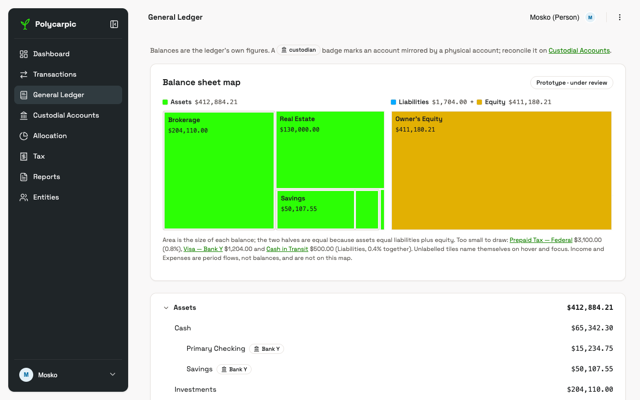
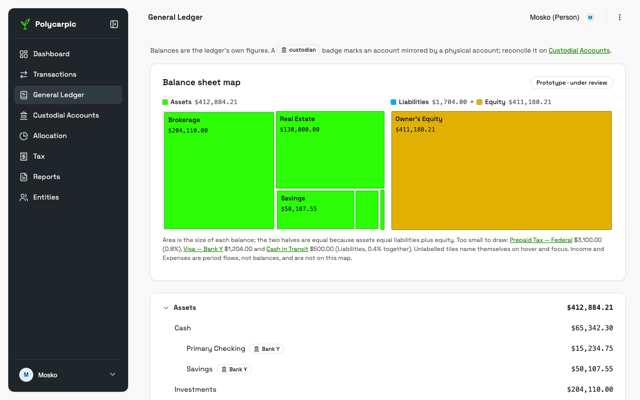
docs(design): --cat-edge, a darker hairline on categorical marks
--border is 1.06:1 on the neon, so it edged nothing on the brightest
slots. --cat-edge is the page ink at 35% light, 25% dark; treemap tiles,
Allocation bars and dots, and Pack strokes take it.

Claude-Session: https://claude.ai/code/session_01ShccjKcDxp7qM5CJSuonxD

Changed region(s): [[0.4062, 0.27, 0.625, 0.57]]

diff --git a/docs/DESIGN/tokens.html b/docs/DESIGN/tokens.html
@@ -249,40 +249,44 @@
     <thead><tr><th>Token</th><th>Light</th><th>Dark</th><th>Fixed assignment</th></tr></thead>
     <tbody>
       <tr><td><code>--cat-1</code></td>
-        <td class="pair"><div class="mode"><span class="chip" style="background:#2CFF05;color:#1D1F20;box-shadow:inset 0 0 0 1px var(--border);display:flex;align-items:center;justify-content:center;font-size:0.7rem;font-weight:600">Aa</span><span class="hex">#2CFF05 (1.29 / 1.36)</span><span class="hex">label dark 12.15</span></div></td>
-        <td class="pair"><div class="mode"><span class="chip" style="background:#2CFF05;color:#070808;box-shadow:inset 0 0 0 1px var(--border);display:flex;align-items:center;justify-content:center;font-size:0.7rem;font-weight:600">Aa</span><span class="hex">#2CFF05 (14.72 / 14.18)</span><span class="hex">label dark 14.72</span></div></td>
+        <td class="pair"><div class="mode"><span class="chip" style="background:#2CFF05;color:#1D1F20;box-shadow:inset 0 0 0 1px rgba(29,31,32,.35);display:flex;align-items:center;justify-content:center;font-size:0.7rem;font-weight:600">Aa</span><span class="hex">#2CFF05 (1.29 / 1.36)</span><span class="hex">label dark 12.15</span></div></td>
+        <td class="pair"><div class="mode"><span class="chip" style="background:#2CFF05;color:#070808;box-shadow:inset 0 0 0 1px rgba(242,242,243,.25);display:flex;align-items:center;justify-content:center;font-size:0.7rem;font-weight:600">Aa</span><span class="hex">#2CFF05 (14.72 / 14.18)</span><span class="hex">label dark 14.72</span></div></td>
         <td>Neon green — <code>--brand</code>, literal. Assets · Person · US Equity.</td></tr>
       <tr><td><code>--cat-2</code></td>
-        <td class="pair"><div class="mode"><span class="chip" style="background:#05A9FF;color:#1D1F20;box-shadow:inset 0 0 0 1px var(--border);display:flex;align-items:center;justify-content:center;font-size:0.7rem;font-weight:600">Aa</span><span class="hex">#05A9FF (2.44 / 2.58)</span><span class="hex">label dark 6.40</span></div></td>
-        <td class="pair"><div class="mode"><span class="chip" style="background:#05A9FF;color:#070808;box-shadow:inset 0 0 0 1px var(--border);display:flex;align-items:center;justify-content:center;font-size:0.7rem;font-weight:600">Aa</span><span class="hex">#05A9FF (7.76 / 7.48)</span><span class="hex">label dark 7.76</span></div></td>
+        <td class="pair"><div class="mode"><span class="chip" style="background:#05A9FF;color:#1D1F20;box-shadow:inset 0 0 0 1px rgba(29,31,32,.35);display:flex;align-items:center;justify-content:center;font-size:0.7rem;font-weight:600">Aa</span><span class="hex">#05A9FF (2.44 / 2.58)</span><span class="hex">label dark 6.40</span></div></td>
+        <td class="pair"><div class="mode"><span class="chip" style="background:#05A9FF;color:#070808;box-shadow:inset 0 0 0 1px rgba(242,242,243,.25);display:flex;align-items:center;justify-content:center;font-size:0.7rem;font-weight:600">Aa</span><span class="hex">#05A9FF (7.76 / 7.48)</span><span class="hex">label dark 7.76</span></div></td>
         <td>Sky blue — <code>--brand-2</code>, literal. Liabilities · Trust · Intl Equity.</td></tr>
       <tr><td><code>--cat-3</code></td>
-        <td class="pair"><div class="mode"><span class="chip" style="background:#E2B003;color:#1D1F20;box-shadow:inset 0 0 0 1px var(--border);display:flex;align-items:center;justify-content:center;font-size:0.7rem;font-weight:600">Aa</span><span class="hex">#E2B003 (1.90 / 2.01)</span><span class="hex">label dark 8.23</span></div></td>
-        <td class="pair"><div class="mode"><span class="chip" style="background:#E2B003;color:#070808;box-shadow:inset 0 0 0 1px var(--border);display:flex;align-items:center;justify-content:center;font-size:0.7rem;font-weight:600">Aa</span><span class="hex">#E2B003 (9.97 / 9.61)</span><span class="hex">label dark 9.97</span></div></td>
+        <td class="pair"><div class="mode"><span class="chip" style="background:#E2B003;color:#1D1F20;box-shadow:inset 0 0 0 1px rgba(29,31,32,.35);display:flex;align-items:center;justify-content:center;font-size:0.7rem;font-weight:600">Aa</span><span class="hex">#E2B003 (1.90 / 2.01)</span><span class="hex">label dark 8.23</span></div></td>
+        <td class="pair"><div class="mode"><span class="chip" style="background:#E2B003;color:#070808;box-shadow:inset 0 0 0 1px rgba(242,242,243,.25);display:flex;align-items:center;justify-content:center;font-size:0.7rem;font-weight:600">Aa</span><span class="hex">#E2B003 (9.97 / 9.61)</span><span class="hex">label dark 9.97</span></div></td>
         <td>Gold. Equity · Business · Fixed Income.</td></tr>
       <tr><td><code>--cat-4</code></td>
-        <td class="pair"><div class="mode"><span class="chip" style="background:#FF49D8;color:#1D1F20;box-shadow:inset 0 0 0 1px var(--border);display:flex;align-items:center;justify-content:center;font-size:0.7rem;font-weight:600">Aa</span><span class="hex">#FF49D8 (2.75 / 2.92)</span><span class="hex">label dark 5.67</span></div></td>
-        <td class="pair"><div class="mode"><span class="chip" style="background:#FF49D8;color:#070808;box-shadow:inset 0 0 0 1px var(--border);display:flex;align-items:center;justify-content:center;font-size:0.7rem;font-weight:600">Aa</span><span class="hex">#FF49D8 (6.87 / 6.62)</span><span class="hex">label dark 6.87</span></div></td>
+        <td class="pair"><div class="mode"><span class="chip" style="background:#FF49D8;color:#1D1F20;box-shadow:inset 0 0 0 1px rgba(29,31,32,.35);display:flex;align-items:center;justify-content:center;font-size:0.7rem;font-weight:600">Aa</span><span class="hex">#FF49D8 (2.75 / 2.92)</span><span class="hex">label dark 5.67</span></div></td>
+        <td class="pair"><div class="mode"><span class="chip" style="background:#FF49D8;color:#070808;box-shadow:inset 0 0 0 1px rgba(242,242,243,.25);display:flex;align-items:center;justify-content:center;font-size:0.7rem;font-weight:600">Aa</span><span class="hex">#FF49D8 (6.87 / 6.62)</span><span class="hex">label dark 6.87</span></div></td>
         <td>Magenta. Income · Household · Cash.</td></tr>
       <tr><td><code>--cat-5</code></td>
-        <td class="pair"><div class="mode"><span class="chip" style="background:#06E5F7;color:#1D1F20;box-shadow:inset 0 0 0 1px var(--border);display:flex;align-items:center;justify-content:center;font-size:0.7rem;font-weight:600">Aa</span><span class="hex">#06E5F7 (1.46 / 1.55)</span><span class="hex">label dark 10.68</span></div></td>
-        <td class="pair"><div class="mode"><span class="chip" style="background:#06E5F7;color:#070808;box-shadow:inset 0 0 0 1px var(--border);display:flex;align-items:center;justify-content:center;font-size:0.7rem;font-weight:600">Aa</span><span class="hex">#06E5F7 (12.95 / 12.48)</span><span class="hex">label dark 12.95</span></div></td>
+        <td class="pair"><div class="mode"><span class="chip" style="background:#06E5F7;color:#1D1F20;box-shadow:inset 0 0 0 1px rgba(29,31,32,.35);display:flex;align-items:center;justify-content:center;font-size:0.7rem;font-weight:600">Aa</span><span class="hex">#06E5F7 (1.46 / 1.55)</span><span class="hex">label dark 10.68</span></div></td>
+        <td class="pair"><div class="mode"><span class="chip" style="background:#06E5F7;color:#070808;box-shadow:inset 0 0 0 1px rgba(242,242,243,.25);display:flex;align-items:center;justify-content:center;font-size:0.7rem;font-weight:600">Aa</span><span class="hex">#06E5F7 (12.95 / 12.48)</span><span class="hex">label dark 12.95</span></div></td>
         <td>Cyan. Expense · Holding.</td></tr>
       <tr><td><code>--cat-6</code></td>
-        <td class="pair"><div class="mode"><span class="chip" style="background:#C67EFF;color:#1D1F20;box-shadow:inset 0 0 0 1px var(--border);display:flex;align-items:center;justify-content:center;font-size:0.7rem;font-weight:600">Aa</span><span class="hex">#C67EFF (2.53 / 2.68)</span><span class="hex">label dark 6.17</span></div></td>
-        <td class="pair"><div class="mode"><span class="chip" style="background:#C67EFF;color:#070808;box-shadow:inset 0 0 0 1px var(--border);display:flex;align-items:center;justify-content:center;font-size:0.7rem;font-weight:600">Aa</span><span class="hex">#C67EFF (7.48 / 7.20)</span><span class="hex">label dark 7.48</span></div></td>
+        <td class="pair"><div class="mode"><span class="chip" style="background:#C67EFF;color:#1D1F20;box-shadow:inset 0 0 0 1px rgba(29,31,32,.35);display:flex;align-items:center;justify-content:center;font-size:0.7rem;font-weight:600">Aa</span><span class="hex">#C67EFF (2.53 / 2.68)</span><span class="hex">label dark 6.17</span></div></td>
+        <td class="pair"><div class="mode"><span class="chip" style="background:#C67EFF;color:#070808;box-shadow:inset 0 0 0 1px rgba(242,242,243,.25);display:flex;align-items:center;justify-content:center;font-size:0.7rem;font-weight:600">Aa</span><span class="hex">#C67EFF (7.48 / 7.20)</span><span class="hex">label dark 7.48</span></div></td>
         <td>Violet. Sixth series by first appearance.</td></tr>
       <tr><td><code>--cat-7</code></td>
-        <td class="pair"><div class="mode"><span class="chip" style="background:#FF67A4;color:#1D1F20;box-shadow:inset 0 0 0 1px var(--border);display:flex;align-items:center;justify-content:center;font-size:0.7rem;font-weight:600">Aa</span><span class="hex">#FF67A4 (2.56 / 2.72)</span><span class="hex">label dark 6.09</span></div></td>
-        <td class="pair"><div class="mode"><span class="chip" style="background:#FF67A4;color:#070808;box-shadow:inset 0 0 0 1px var(--border);display:flex;align-items:center;justify-content:center;font-size:0.7rem;font-weight:600">Aa</span><span class="hex">#FF67A4 (7.38 / 7.11)</span><span class="hex">label dark 7.38</span></div></td>
+        <td class="pair"><div class="mode"><span class="chip" style="background:#FF67A4;color:#1D1F20;box-shadow:inset 0 0 0 1px rgba(29,31,32,.35);display:flex;align-items:center;justify-content:center;font-size:0.7rem;font-weight:600">Aa</span><span class="hex">#FF67A4 (2.56 / 2.72)</span><span class="hex">label dark 6.09</span></div></td>
+        <td class="pair"><div class="mode"><span class="chip" style="background:#FF67A4;color:#070808;box-shadow:inset 0 0 0 1px rgba(242,242,243,.25);display:flex;align-items:center;justify-content:center;font-size:0.7rem;font-weight:600">Aa</span><span class="hex">#FF67A4 (7.38 / 7.11)</span><span class="hex">label dark 7.38</span></div></td>
         <td>Rose. Seventh series by first appearance.</td></tr>
       <tr><td><code>--cat-other</code></td>
-        <td class="pair"><div class="mode"><span class="chip" style="background:#A8A39D;color:#1D1F20;box-shadow:inset 0 0 0 1px var(--border);display:flex;align-items:center;justify-content:center;font-size:0.7rem;font-weight:600">Aa</span><span class="hex">#A8A39D (2.36 / 2.50)</span><span class="hex">label dark 6.61</span></div></td>
-        <td class="pair"><div class="mode"><span class="chip" style="background:#A8A39D;color:#070808;box-shadow:inset 0 0 0 1px var(--border);display:flex;align-items:center;justify-content:center;font-size:0.7rem;font-weight:600">Aa</span><span class="hex">#A8A39D (8.01 / 7.72)</span><span class="hex">label dark 8.01</span></div></td>
+        <td class="pair"><div class="mode"><span class="chip" style="background:#A8A39D;color:#1D1F20;box-shadow:inset 0 0 0 1px rgba(29,31,32,.35);display:flex;align-items:center;justify-content:center;font-size:0.7rem;font-weight:600">Aa</span><span class="hex">#A8A39D (2.36 / 2.50)</span><span class="hex">label dark 6.61</span></div></td>
+        <td class="pair"><div class="mode"><span class="chip" style="background:#A8A39D;color:#070808;box-shadow:inset 0 0 0 1px rgba(242,242,243,.25);display:flex;align-items:center;justify-content:center;font-size:0.7rem;font-weight:600">Aa</span><span class="hex">#A8A39D (8.01 / 7.72)</span><span class="hex">label dark 8.01</span></div></td>
         <td>Neutral. Every series from the eighth on, folded into one “Other”.</td></tr>
+      <tr><td><code>--cat-edge</code></td>
+        <td class="pair"><div class="mode"><span class="chip" style="background:#2CFF05;box-shadow:inset 0 0 0 1px rgba(29,31,32,.35)"></span><span class="hex">--foreground 35%</span><span class="hex">on neon 2.09 / 2.68</span></div></td>
+        <td class="pair"><div class="mode"><span class="chip" style="background:#0D0E0F;box-shadow:inset 0 0 0 1px rgba(242,242,243,.25)"></span><span class="hex">--foreground 25%</span><span class="hex">on --card 2.08</span></div></td>
+        <td>The 1px edge on every categorical mark. Light: against the fill / the page.</td></tr>
     </tbody>
   </table>
-  <p class="section-hint group-note"><strong>Light-mode surface contrast is waived for categorical fills by Principal ruling.</strong> The 3:1 rule would darken the brand colours out of the set, so these fills sit at 1.29–2.92:1 on the light surfaces. Three things compensate on every mark: it carries a visible label or legend; it has a 1px <code>--border</code> hairline, or a 2px surface gap against a neighbouring fill; and its label ink is dark, AA on the fill. Telling the slots apart is not waived: the colour-blindness and normal-vision checks pass.</p>
+  <p class="section-hint group-note"><strong>Light-mode surface contrast is waived for categorical fills by Principal ruling.</strong> The 3:1 rule would darken the brand colours out of the set, so these fills sit at 1.29–2.92:1 on the light surfaces. Three things compensate on every mark: it carries a visible label or legend; it has a 1px <code>--cat-edge</code> hairline, and a 2px surface gap against a neighbouring fill; and its label ink is dark, AA on the fill. Telling the slots apart is not waived: the colour-blindness and normal-vision checks pass.</p>
   <p class="section-hint group-note"><strong>Colour follows the entity, never its rank.</strong> The accounting elements (Assets, Liabilities, Equity, Income, Expense) and the entity types (Person, Trust, Business, Household, Holding) both use slots 1–5; they never share a chart. Asset classes use slots 1–4 and a sub-category takes its parent’s slot. Anything else (transaction categories, Sankey flows) is assigned in order of first appearance, persisted, and folds into <code>--cat-other</code> from the eighth on.</p>
 </section>
 

diff --git a/docs/DESIGN/screen.css b/docs/DESIGN/screen.css
@@ -1451,8 +1451,8 @@ table.data-table tr.opening td { color: var(--muted-foreground); font-style: ita
 .alloc-row .alloc-figs { font-family: var(--font-mono); font-variant-numeric: tabular-nums; font-size: 13px; color: var(--muted-foreground); text-align: right; }
 .alloc-row .badge { justify-self: end; }
 .alloc-track { position: relative; height: 10px; border-radius: 999px; background: var(--muted); }
-.alloc-track .alloc-fill { position: absolute; inset: 0 auto 0 0; border-radius: 999px; box-shadow: inset 0 0 0 1px var(--border); }
-.alloc-name .dot { box-shadow: 0 0 0 1px var(--border); }
+.alloc-track .alloc-fill { position: absolute; inset: 0 auto 0 0; border-radius: 999px; box-shadow: inset 0 0 0 1px var(--cat-edge); }
+.alloc-name .dot { box-shadow: 0 0 0 1px var(--cat-edge); }
 .alloc-track .alloc-target { position: absolute; top: -4px; bottom: -4px; width: 2px; background: var(--foreground); border-radius: 1px; }
 .alloc-legend { display: flex; gap: 16px; font-size: 12px; color: var(--muted-foreground); }
 .alloc-legend span { display: inline-flex; align-items: center; gap: 6px; }
@@ -1534,7 +1534,7 @@ table.data-table tr.opening td { color: var(--muted-foreground); font-style: ita
    Liabilities --cat-2, Equity --cat-3), each label in the slot's
    dark -foreground ink: 12.15 / 6.40 / 8.23:1 light, 14.72 / 7.76 /
    9.97:1 dark. The 1px --card tile border is the surface gap between
-   fills (2px between two tiles), and the inset --border hairline edges
+   fills (2px between two tiles), and the inset --cat-edge hairline edges
    the bright fills on white. Labels
    clip by container query: value hidden under 96x38, label under 64x22.
    Colour is never alone: every tile carries its name (or a title/aria
@@ -1545,10 +1545,10 @@ table.data-table tr.opening td { color: var(--muted-foreground); font-style: ita
 .tm-cols > span { display: flex; align-items: center; gap: 6px; flex-wrap: wrap; }
 .tm-cols .mono { color: var(--muted-foreground); font-weight: 400; }
 .tm-plus { color: var(--muted-foreground); }
-.tm-swatch { width: 10px; height: 10px; border-radius: 2px; display: inline-block; box-shadow: 0 0 0 1px var(--border); }
+.tm-swatch { width: 10px; height: 10px; border-radius: 2px; display: inline-block; box-shadow: 0 0 0 1px var(--cat-edge); }
 .tm-map { position: relative; height: 240px; }
 .tm-group { position: absolute; background: var(--border); border-radius: 4px; }
-.tm-tile { position: absolute; box-sizing: border-box; border: 1px solid var(--card); border-radius: 3px; box-shadow: inset 0 0 0 1px var(--border); overflow: hidden; container-type: size; text-decoration: none; color: var(--card); }
+.tm-tile { position: absolute; box-sizing: border-box; border: 1px solid var(--card); border-radius: 3px; box-shadow: inset 0 0 0 1px var(--cat-edge); overflow: hidden; container-type: size; text-decoration: none; color: var(--card); }
 .tm-inner { display: flex; flex-direction: column; gap: 2px; padding: 6px 8px; min-width: 0; }
 .tm-tile:hover { filter: brightness(1.08); }
 .tm-tile:focus-visible { outline: 2px solid var(--ring); outline-offset: 1px; z-index: 1; }
@@ -1572,7 +1572,7 @@ table.data-table tr.opening td { color: var(--muted-foreground); font-style: ita
    structure, not wealth (sizing by balance would also leak magnitude
    across an access boundary). Each circle's 3px stroke is its entity
    type's categorical slot (.pack-t-person … .pack-t-holding), edged by
-   a 1px --border hairline, beside
+   a 1px --cat-edge hairline, beside
    the type icon and label, so colour is never alone. The current entity
    carries a --ring outside a 3px --card gap, so a green Person stroke
    and the green ring never merge. */
@@ -1583,8 +1583,8 @@ table.data-table tr.opening td { color: var(--muted-foreground); font-style: ita
 .pack-child { position: relative; width: 128px; aspect-ratio: 1; border-radius: 50%; background: var(--card); border: 1px solid var(--border); display: flex; flex-direction: column; align-items: center; justify-content: center; gap: 4px; padding: 10px; box-sizing: border-box; text-align: center; text-decoration: none; color: var(--foreground); }
 .pack-child:hover, .pack-parent-head:hover { background: var(--accent); }
 .pack-child:focus-visible, .pack-parent-head:focus-visible { outline: 2px solid var(--ring); outline-offset: 2px; }
-.pack-t-person, .pack-t-trust, .pack-t-business, .pack-t-household, .pack-t-holding { box-shadow: 0 0 0 1px var(--border); }
-.pack-current { box-shadow: 0 0 0 1px var(--border), 0 0 0 3px var(--card), 0 0 0 5px var(--ring); }
+.pack-t-person, .pack-t-trust, .pack-t-business, .pack-t-household, .pack-t-holding { box-shadow: 0 0 0 1px var(--cat-edge); }
+.pack-current { box-shadow: 0 0 0 1px var(--cat-edge), 0 0 0 3px var(--card), 0 0 0 5px var(--ring); }
 .pack-parent.pack-t-household, .pack-parent.pack-t-holding, .pack-child { border-width: 3px; }
 .pack-t-person { border-color: var(--cat-1); }
 .pack-t-trust { border-color: var(--cat-2); }

diff --git a/docs/DESIGN/tokens.css b/docs/DESIGN/tokens.css
@@ -130,7 +130,7 @@
      cat-1..5 CVD 8.3, normal 17.1. WAIVED by the same ruling: the 3:1
      surface contrast on light surfaces (tightest 1.29:1, neon on
      --background) and the mode lightness band. Compensated on every
-     mark: a label or legend, a 1px --border hairline or a 2px surface
+     mark: a label or legend, a 1px --cat-edge hairline and a 2px surface
      gap, and the dark label ink on the line (AA on the fill).
      design-system-spec.md § Categorical palette has the full method. */
   --cat-1: var(--brand);   --cat-1-foreground: #1D1F20; /* neon green, 12.15:1 */
@@ -144,6 +144,13 @@
      --muted-foreground), at the set's brightness but with no chroma, so
      it never reads as an eighth hue. */
   --cat-other: #A8A39D;    --cat-other-foreground: #1D1F20; /* 6.61:1 */
+  /* The 1px edge on a categorical mark: --foreground at 35%, translucent so
+     it reads as a darker step of whatever it sits on. Inset on a fill:
+     neon 2.09:1 against the fill and 2.68:1 against --background, cyan
+     2.04 / 2.98, gold 1.94 / 3.69. Outset on a surface: 2.14:1 against
+     --background, 2.15:1 against --card. --border is 1.06:1 on the neon,
+     too faint to edge the brightest slots. */
+  --cat-edge: rgba(29, 31, 32, 0.35);
 
   /* Sidebar: inverted relative to the page (a dark card on the light page)
      and tinted with the same blue as the neutral scale, so the whole
@@ -241,6 +248,11 @@
   --cat-6-foreground: #070808;     /*  7.48:1 */
   --cat-7-foreground: #070808;     /*  7.38:1 */
   --cat-other-foreground: #070808; /*  8.01:1 */
+  /* --foreground at 25%. The fills already clear the surface here, so the
+     edge only has to show, not to separate: outset 2.08:1 on --card and
+     2.00:1 on --background, a soft ring rather than a halo. Inset it barely
+     registers on a fill this bright (neon 1.00:1, cyan 1.04, gold 1.15). */
+  --cat-edge: rgba(242, 242, 243, 0.25);
 
   /* Sidebar: inverted the other way in dark mode, a LIGHT card on the dark
      page, close to the light canvas tone. The ring uses a derived blue

diff --git a/docs/DESIGN/design-system-spec.md b/docs/DESIGN/design-system-spec.md
@@ -93,6 +93,7 @@ Contrast figures are computed via the standard WCAG relative-luminance formula a
 | `--ring` | `#148100` | Focus ring — follows `--primary` |
 | `--chart-1`…`--chart-5` | `#0C96DF` → `#086291` | Sequential/magnitude ramp in `--brand-2`'s blue hue |
 | `--cat-1`…`--cat-7`, `--cat-other` | `#2CFF05` · `#05A9FF` · `#E2B003` · `#FF49D8` · `#06E5F7` · `#C67EFF` · `#FF67A4` · `#A8A39D` | Categorical (identity) palette, slots 1–2 are `--brand`/`--brand-2`, each with a dark `-foreground` label ink — § Categorical palette |
+| `--cat-edge` | `rgba(29,31,32,0.35)` | The 1px edge on a categorical mark, `--foreground` at 35% — § Categorical palette |
 | `--sidebar` | `#1F2528` | Inverted — a dark blue-tinted surface floating on the light page (see Sidebar) |
 | `--sidebar-foreground` | `#F2F2F3` | |
 | `--sidebar-accent` | `#303B40` | |
@@ -125,6 +126,7 @@ Contrast figures are computed via the standard WCAG relative-luminance formula a
 | `--destructive-foreground` | `#2A0507` | |
 | `--border` | `rgba(255,255,255,0.08)` | |
 | `--cat-1`…`--cat-7`, `--cat-other` | same values as light | Unthemed, like `--brand`; only the `-foreground` label ink changes, to `#070808` — § Categorical palette |
+| `--cat-edge` | `rgba(242,242,243,0.25)` | `--foreground` at 25% — § Categorical palette |
 | `--chart-1`…`--chart-5` | `#C5E9FC` → `#0B89CB` | `--brand-2`'s blue hue, lightened; `--chart-5` here equals light mode's `--chart-2` by coincidence — both ramps sample the same hue/saturation function |
 | `--sidebar` | `#F7F8F8` | Inverted the other way — a light, blue-tinted card floating on the dark page |
 | `--sidebar-foreground` | `#1D1F20` | |
@@ -172,7 +174,7 @@ The `--chart` ramp encodes **how much**. Treemaps, Pack, Sankey and grouped or s
 **The waiver, and what pays for it.** By Principal ruling the light-mode 3:1 surface rule and the lightness band do not apply to categorical fills: the brand colours are the palette, and darkening them is exactly what the ruling rejected. Distinctness is not waived; the separation runs above still gate. Every categorical mark pays three ways, in every mode:
 
 1. **A visible label or legend.** Colour is never alone; a chart that cannot label a mark shows it in its table view.
-2. **An edge.** A 1px `--border` hairline on the fill, and a 2px surface gap between touching fills. The hairline frames the mark rather than contrasting with it (`--border` is 1.06:1 against the neon and 1.29:1 against `--background`), so on a small mark the shape comes from the fill's saturation and the label does the identifying.
+2. **An edge.** A 1px `--cat-edge` hairline on the fill, and a 2px surface gap between touching fills. `--cat-edge` is the page ink at partial alpha, so it reads as a darker step of whatever it sits on: `--foreground` at 35% in light mode, where an inset edge clears about 2:1 against the brightest fills and more against the page (neon 2.09:1 / 2.68:1, cyan 2.04 / 2.98, gold 1.94 / 3.69), and an outset edge is 2.14:1 on `--background`, 2.15:1 on `--card`. In dark mode it is `--foreground` at 25%, because the fills already clear the surface and the edge only has to show: outset 2.08:1 on `--card` and 2.00:1 on `--background`, a soft ring with no halo; inset it barely registers on the brightest fills (neon 1.00:1, cyan 1.04, gold 1.15) and needs to do no more. `--border` is not the edge: at 1.06:1 on the neon it disappears.
 3. **Dark label ink on the fill.** Every `--cat-N-foreground` is dark: `#1D1F20` in light mode (tightest 5.67:1, magenta) and `#070808` in dark (tightest 6.87:1, magenta), AA throughout. Text is never set in a slot colour on a light surface.
 
 **Status hues stay reserved.** No slot is red, orange or gain green, and a categorical fill never carries gain/loss: when a series means good or bad it wears `--positive`/`--destructive`, never a slot (one chart never mixes both). Status colours are text on signed figures with a `+`/arrow, and a slot is a labelled fill, so the nearest pairs are held apart by job as well as by distance: `--cat-3` gold↔dark `--warning` 10.1, `--cat-7` rose↔dark `--destructive` 10.7, `--cat-5` cyan↔dark `--positive` 11.1, `--cat-1`↔dark `--positive` 16.7.
@@ -189,7 +191,7 @@ The accounting elements and the entity types reuse slots 1–5; the two sets nev
 
 **Usage rules (from the skill).**
 - **A legend is always present for two or more series**; direct-label selectively (the tile or band that matters, the extremes), and let the table view carry every value. A label renders inside a fill only when it fits with padding, otherwise it moves outside the mark or to the tooltip; colour is never the only channel.
-- **Separate touching fills with a 2px surface gap**, and edge each mark with the 1px `--border` hairline (§ the waiver above).
+- **Separate touching fills with a 2px surface gap**, and edge each mark with the 1px `--cat-edge` hairline (§ the waiver above).
 - **Large blocks stay quiet:** a treemap is the exception the label inks were built for; Pack circles and wide areas take the slot as a 3px stroke on a `--card`/`--muted` fill, not a solid fill.
 - **Texture fallback:** one "Lines" fill at 45° (and its 135° mirror), inked tone-on-tone in a darker step of the slot's own hue. Opt-in only: the accessibility setting, print, or `forced-colors`. Never decorative, never on by default.
 - **One series is one colour.** The bars of a single series all take one colour (`--chart-3`) and are never coloured by value; slots are for two or more identities.
@@ -491,7 +493,7 @@ A nested treemap of the chart of accounts, prototyped as a card above the tree o
 
 **What the prototype settles:**
 - **Balance sheet only, two equal halves.** Assets on the left; Liabilities + Equity on the right. The accounting equation makes the halves equal in area, so the map shows the equation itself: a reader sees at once that the halves balance. Income and Expenses are period flows, not balances; on one area scale with balances they are invisible (month-to-date $2,400 against $412,884) and they would break the equal halves. They are not on this map. An income-statement counterpart (Income | Expenses + net income, also equal halves) belongs with Reports if it is wanted.
-- **Colour by element, from the categorical slots.** Assets `--cat-1`, Liabilities `--cat-2`, Equity `--cat-3` (the accounting-element assignment, § Categorical palette), each label in its slot's dark `-foreground` ink: 12.15 / 6.40 / 8.23:1 in light mode, 14.72 / 7.76 / 9.97:1 in dark. Tiles keep a 1px `--border` hairline and a 2px `--card` gap (§ Categorical palette → the waiver). The slots are distinct hues, validated all-pairs, so colour separates the elements; the halves and their captions still carry the meaning, and colour is never alone.
+- **Colour by element, from the categorical slots.** Assets `--cat-1`, Liabilities `--cat-2`, Equity `--cat-3` (the accounting-element assignment, § Categorical palette), each label in its slot's dark `-foreground` ink: 12.15 / 6.40 / 8.23:1 in light mode, 14.72 / 7.76 / 9.97:1 in dark. Tiles keep a 1px `--cat-edge` hairline and a 2px `--card` gap (§ Categorical palette → the waiver). The slots are distinct hues, validated all-pairs, so colour separates the elements; the halves and their captions still carry the meaning, and colour is never alone.
 - **Credit-balance accounts are fine.** Liabilities and Equity carry credit-normal balances; |balance| gives them positive area on their own side.
 - **Labels are fixed-size HTML, clipped by container query:** the value hides under 96×38px, the name under 64×22px; an unlabelled tile names itself on hover, focus and to assistive tech (full path in its accessible name). Text inside a scaled SVG `viewBox` shrinks with the card and is unreadable at 960px, so labels must not scale with the layout.
 
@@ -573,7 +575,7 @@ See `styled-screens/allocation.html`, `styled-screens/reports.html`, `styled-scr
 
 **The entity switcher** (header entity selector) is always present: every user holds at least their own Person entity. It lists every entity the user holds membership on, base and parent, with each parent's included base entities nested beneath it; a base entity in two parents is listed under both. An included entity the user has no membership on is listed with a lock, and selecting it opens the boundary panel.
 
-**Roll-up map (Entities).** A card above the membership list draws every entity the user holds membership on as a **Pack** (LayerChart `Pack`, d3.pack, for frontend-lead): parents as `--muted` circles, each holding its base entities as `--card` circles; each circle's 3px stroke is its entity type's categorical slot (Person `--cat-1`, Trust `--cat-2`, Business `--cat-3`, Household `--cat-4`, Holding `--cat-5`), edged by a 1px `--border` hairline, with the type icon and label beside it, so colour is never alone; a base entity in no parent sits at top level. A base entity in several parents is drawn once in each, with an "also in <parent>" chip; there is no overlap geometry. Each circle shows the type icon and label, name and role badge, and switches to that entity on click; the current entity carries a `--ring` outside a 3px `--card` gap, so it never merges with a green Person stroke. **Circles are equal in size per level:** the map shows structure, not wealth. Sizing by balance would shrink small entities past legibility and would leak magnitude across the access boundary. The membership list below stays the accessible fallback, each card with an Includes / Included in line. Dashboard roll-ups may likewise list an included entity under each parent it belongs to.
+**Roll-up map (Entities).** A card above the membership list draws every entity the user holds membership on as a **Pack** (LayerChart `Pack`, d3.pack, for frontend-lead): parents as `--muted` circles, each holding its base entities as `--card` circles; each circle's 3px stroke is its entity type's categorical slot (Person `--cat-1`, Trust `--cat-2`, Business `--cat-3`, Household `--cat-4`, Holding `--cat-5`), edged by a 1px `--cat-edge` hairline, with the type icon and label beside it, so colour is never alone; a base entity in no parent sits at top level. A base entity in several parents is drawn once in each, with an "also in <parent>" chip; there is no overlap geometry. Each circle shows the type icon and label, name and role badge, and switches to that entity on click; the current entity carries a `--ring` outside a 3px `--card` gap, so it never merges with a green Person stroke. **Circles are equal in size per level:** the map shows structure, not wealth. Sizing by balance would shrink small entities past legibility and would leak magnitude across the access boundary. The membership list below stays the accessible fallback, each card with an Includes / Included in line. Dashboard roll-ups may likewise list an included entity under each parent it belongs to.
 
 See `styled-screens/entities.html`.
 
